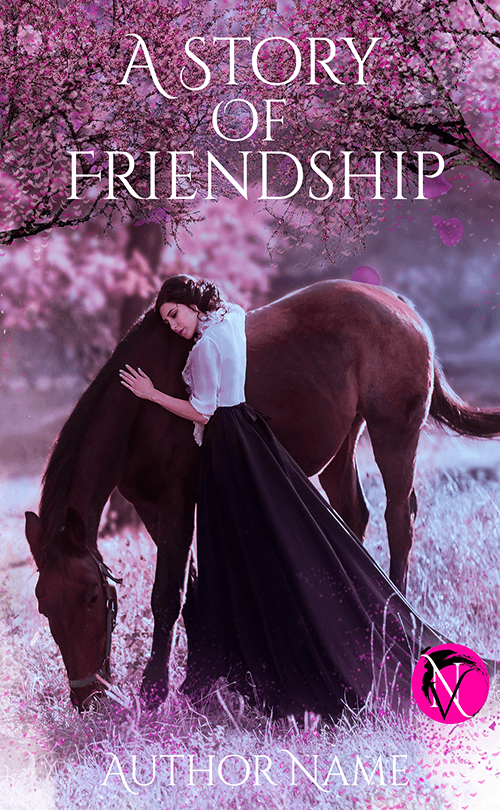
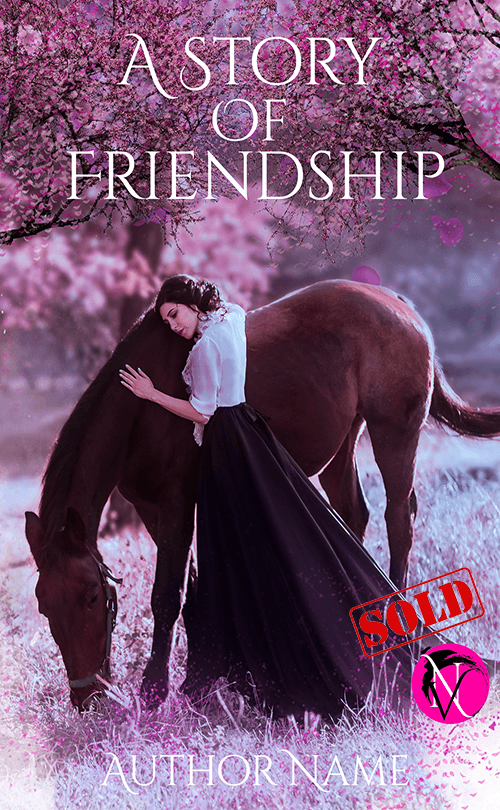
new

Changed region(s): [[0.69, 0.679, 0.99, 0.8333]]

diff --git a/works/_premades/pleasureandpain.md b/works/_premades/pleasureandpain.md
@@ -1,0 +1,9 @@
+--- 
+title: "pleasureandpain"
+description:
+price: "SOLD"
+category: 
+images: 
+    - /assets/img/pleasureandpain.png
+order: 63
+---

diff --git a/works/_premades/angeldevil.md b/works/_premades/angeldevil.md
@@ -1,0 +1,9 @@
+--- 
+title: "Her Angel His Devil"
+description:
+price: "SOLD"
+category: 
+images: 
+    - /assets/img/angeldevil.png
+order: 59
+---

diff --git a/works/_premades/daredevil.md b/works/_premades/daredevil.md
@@ -1,0 +1,9 @@
+--- 
+title: "Dare Devil"
+description:
+price: "SOLD"
+category: 
+images: 
+    - /assets/img/daredevil.png
+order: 58
+---

diff --git a/works/_premades/thechase2.md b/works/_premades/thechase2.md
@@ -1,0 +1,9 @@
+--- 
+title: "The Chase"
+description:
+price: "SOLD"
+category: 
+images: 
+    - /assets/img/thechase2.png
+order: 60
+---

diff --git a/works/_premades/vengeance.md b/works/_premades/vengeance.md
@@ -1,0 +1,9 @@
+--- 
+title: "Vengeance"
+description:
+price: "SOLD"
+category: 
+images: 
+    - /assets/img/vengeance.png
+order: 62
+---
